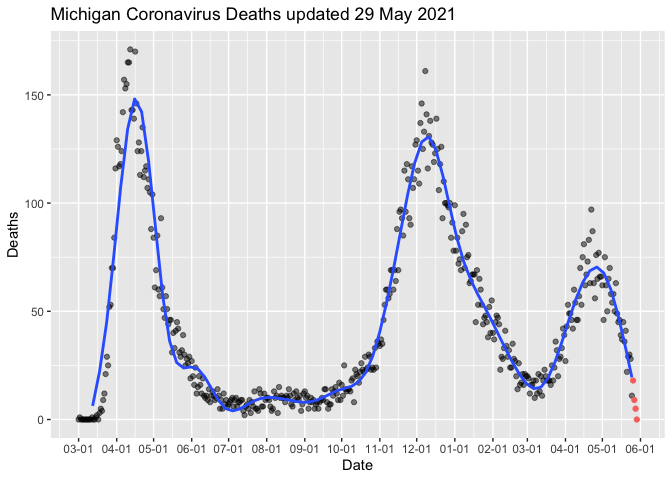
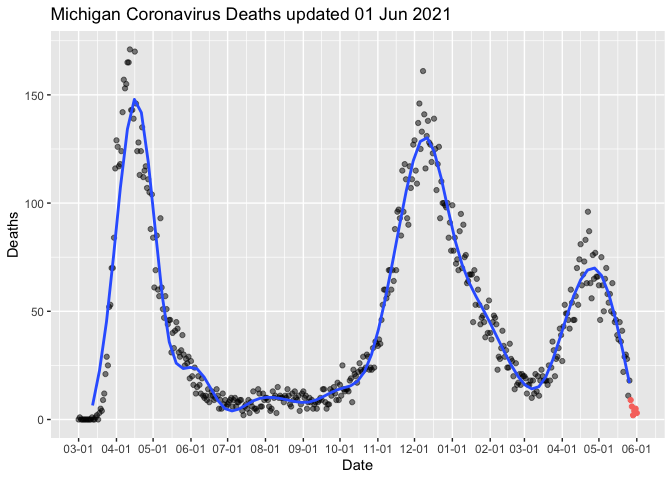
Jun-02 2021 09:00 update

diff --git a/MiCorona.md b/MiCorona.md
@@ -1,7 +1,7 @@
 Michigan COVID Data
 ================
 Adam D. DenHaan
-Jun 01, 2021
+Jun 02, 2021
 
 Get link for data:
 
@@ -49,11 +49,11 @@ mi_data.head()
     ## 4  Alcona 2020-03-05   Confirmed    0.0     0.0               0.0   
     ## 
     ##    Deaths.Cumulative                       Updated  
-    ## 0                0.0 2021-05-29 13:22:23.351500032  
-    ## 1                0.0 2021-05-29 13:22:23.351500032  
-    ## 2                0.0 2021-05-29 13:22:23.351500032  
-    ## 3                0.0 2021-05-29 13:22:23.351500032  
-    ## 4                0.0 2021-05-29 13:22:23.351500032
+    ## 0                0.0 2021-06-01 12:55:40.270100224  
+    ## 1                0.0 2021-06-01 12:55:40.270100224  
+    ## 2                0.0 2021-06-01 12:55:40.270100224  
+    ## 3                0.0 2021-06-01 12:55:40.270100224  
+    ## 4                0.0 2021-06-01 12:55:40.270100224
 
 ``` python
 max_date = max(mi_data["Updated"])
@@ -117,7 +117,7 @@ viz_function(mi_cases_by_day_exclusive, mi_cases_by_day_last4, Date, Deaths, ver
 
 ![](MiCorona_files/figure-gfm/viz2-1.png)<!-- -->
 
-Note that the last 4 days of data have been colored red on the graph, as
+Note that the last 6 days of data have been colored red on the graph, as
 they frequently change as more information becomes available. Vertical
 orange line at 4 weeks in the past (as hospitalizations and deaths
 usually follow cases by three weeks, and the deaths graph regression
